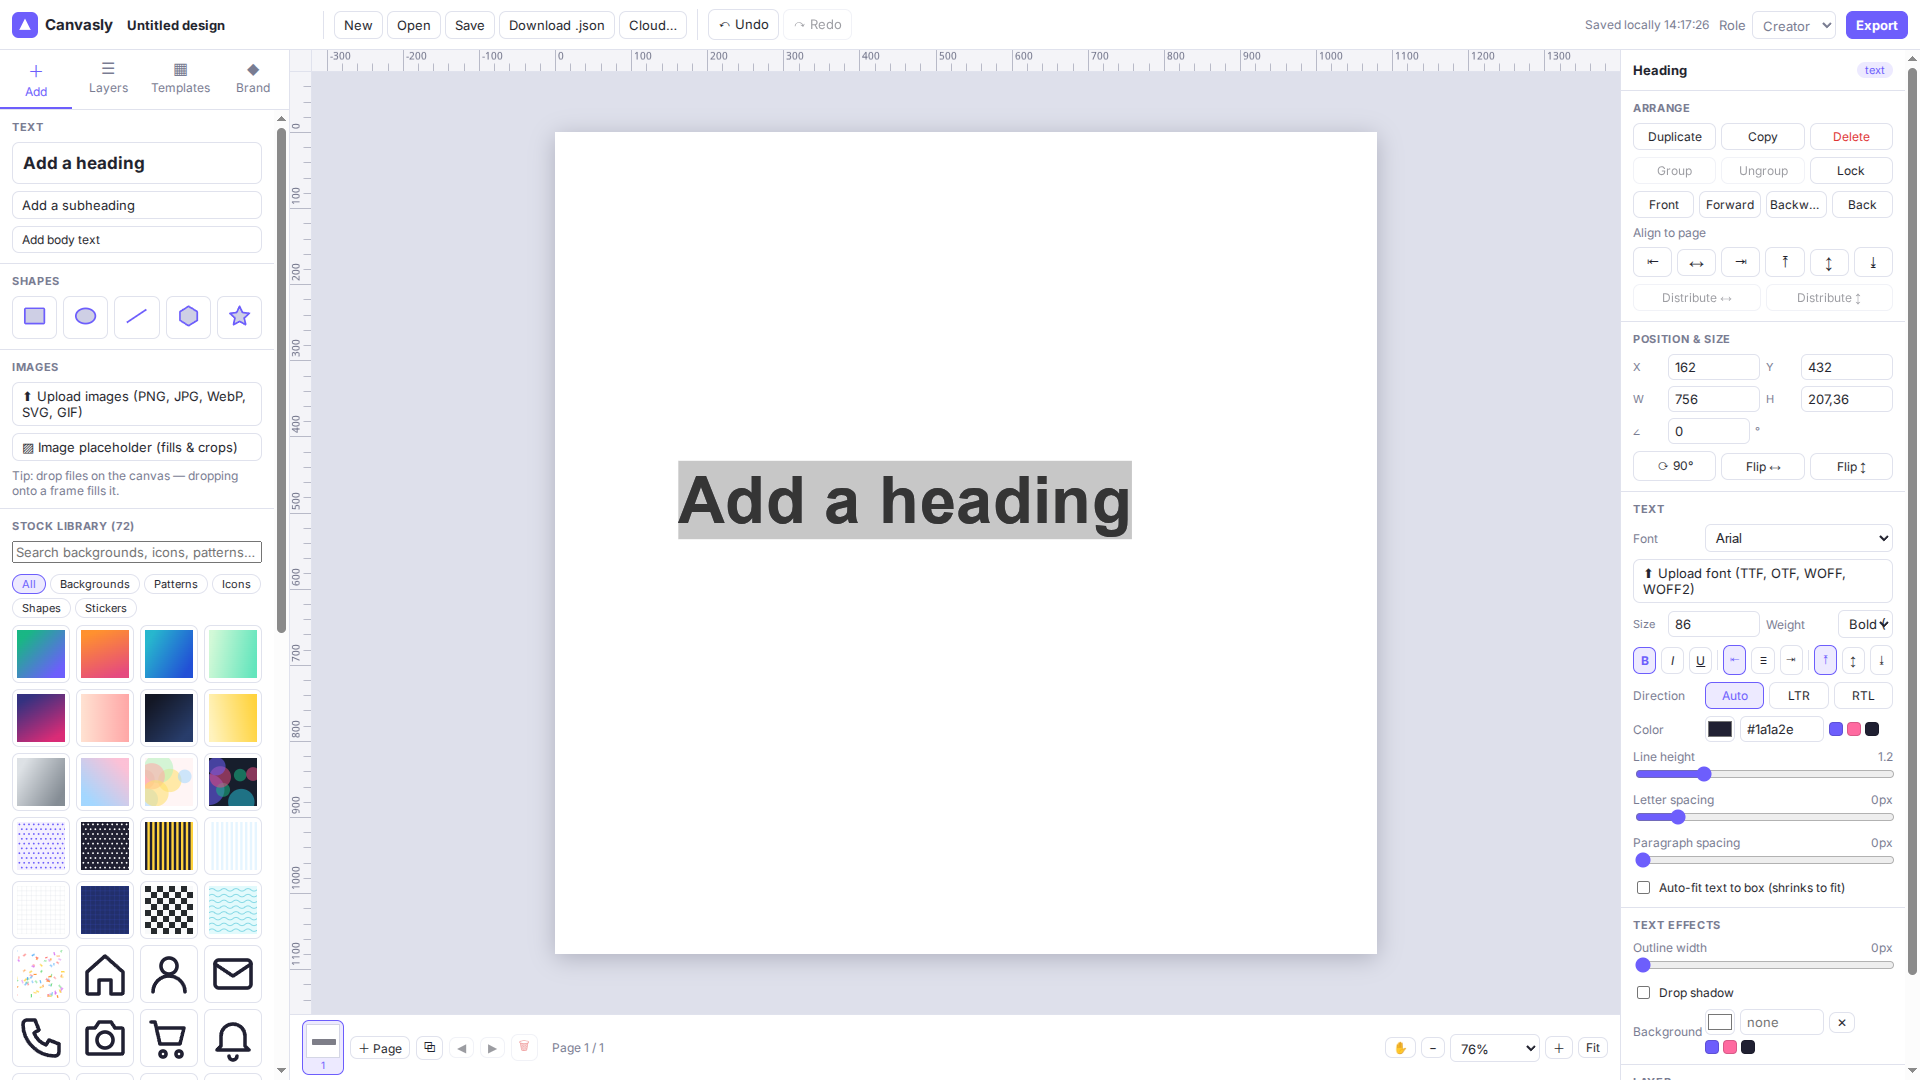
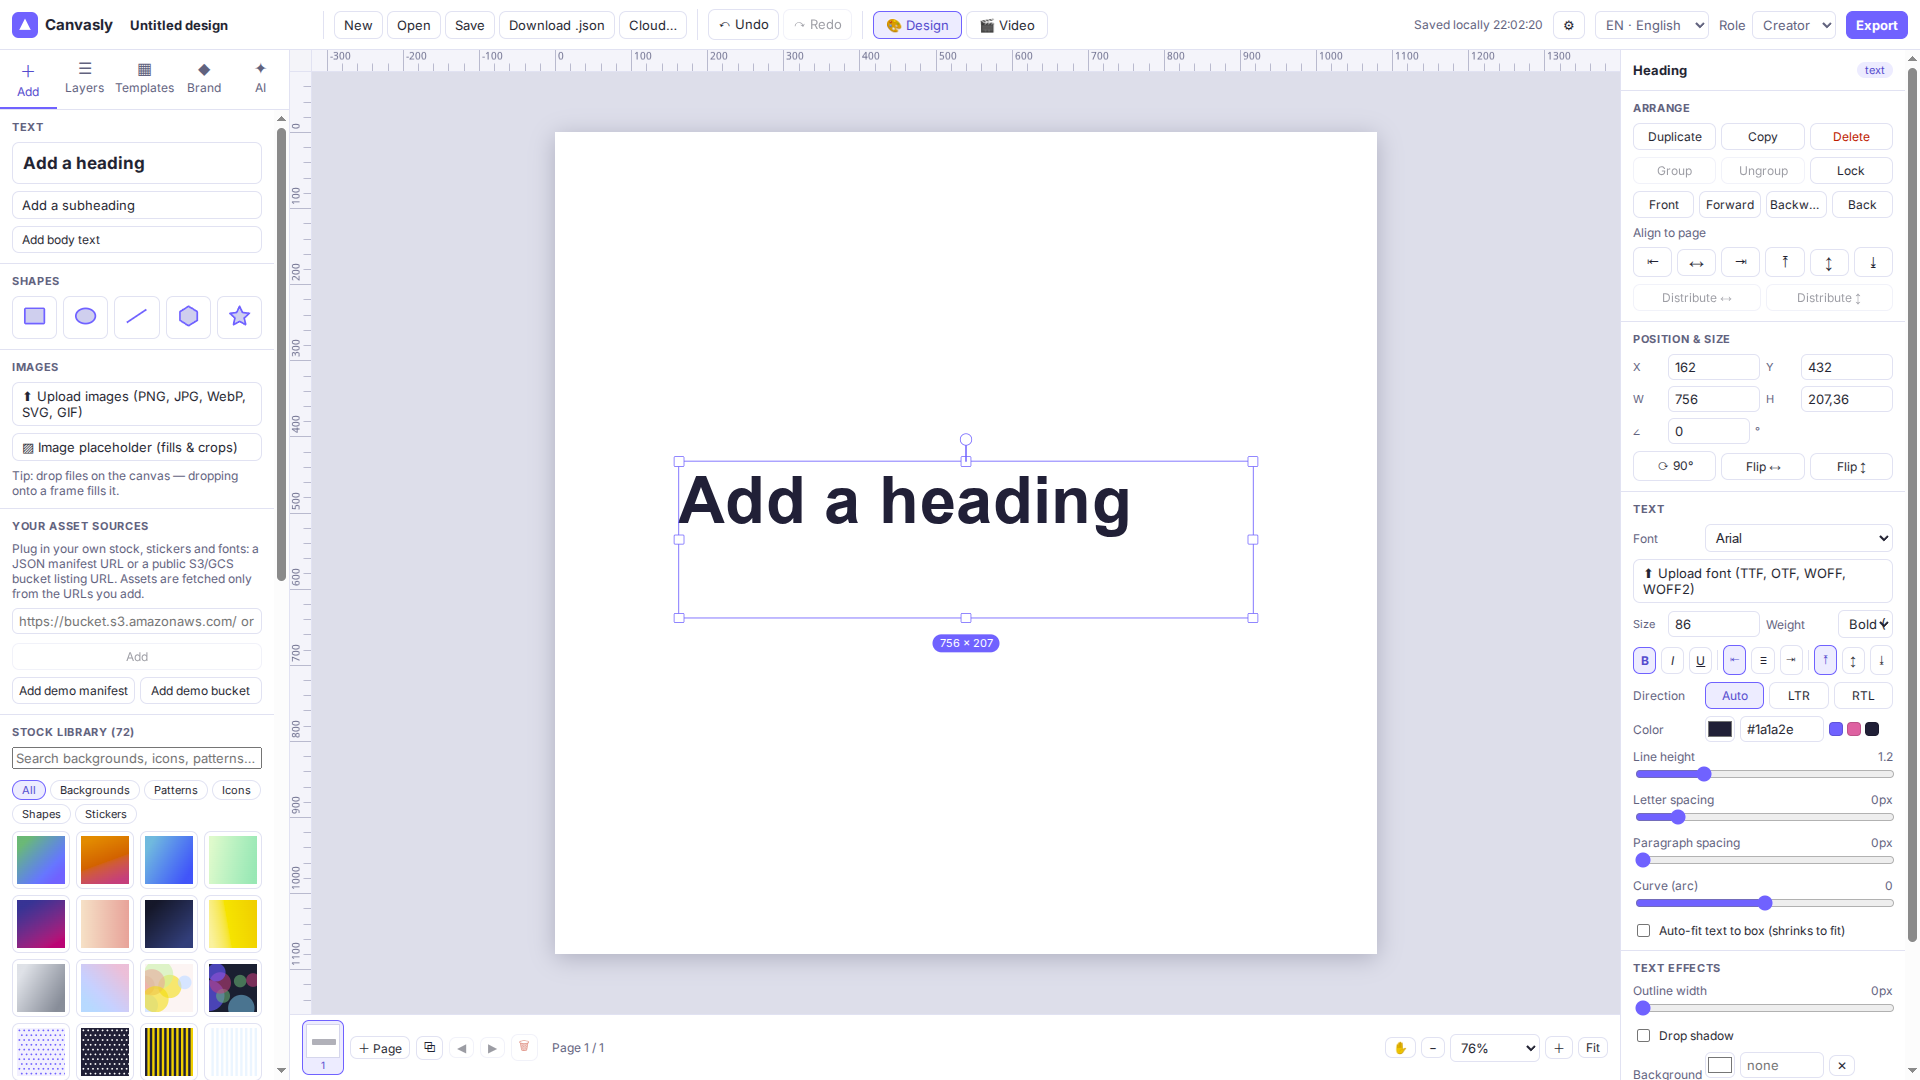
Record Claude Session 4 as 159/159 and refresh the editor screenshot.
Claude closed the remaining checklist rows in the same folder. Sessions 1–3 stay Sonnet at 123; Session 4 ran as Opus 5.5 and is labeled that way in the scoreboard.

diff --git a/claude-cursor-day-1/README.md b/claude-cursor-day-1/README.md
@@ -1,37 +1,41 @@
 # claude-cursor-day-1 — "Canvasly" design editor
 
-A from-scratch Canva-style design editor built by Claude Sonnet 5.5 High (`claude-sonnet-5-5-high`) in Cursor for the IMG.LY build-vs-buy experiment. Stack: **React + TypeScript + Vite only** (no CE.SDK, no `@cesdk/*`, no `@imgly/*`, no other runtime dependencies).
+A from-scratch Canva-style design editor built in Cursor for the IMG.LY build-vs-buy experiment. Sessions 1–3: **Claude Sonnet 5.5 High**. Session 4: **Claude Opus 5.5** (Sonnet was requested; see `TIME_LOG.md`). Stack: **React + TypeScript + Vite** (no CE.SDK, no `@cesdk/*`, no `@imgly/*`). Open-source libraries are allowed.
+
+Self-scored **159 / 159** after Session 4 (Sessions 1–3 were 123 / 159).
 
 ## Install & run
 
 ```bash
 npm install
-npm run dev        # http://localhost:5173
+npm run dev        # http://localhost:5173 (Vite does not pin a port)
 ```
 
-If `localhost` does not resolve in your environment: `npx vite --host 127.0.0.1`.
+If `localhost` does not resolve in your environment: `npx vite --host 127.0.0.1 --port 5173`.
 
 ```bash
-npm run build      # type-check (tsc --noEmit) + production build into dist/
+npm run build      # type-check (tsc --noEmit) + library build + production build into dist/
 npm run preview    # serve the production build
+npm run build:headless
+npm run build:android   # needs ANDROID_HOME
 ```
 
 ## Using it
 
-- **Add** tab: text, shapes, image upload, image placeholder, stickers. **Layers**, **Templates**, **Brand** tabs.
+- **Add** tab: text, shapes, image upload, image placeholder, stickers, asset sources. **Layers**, **Templates**, **Brand**, **AI** tabs.
 - Nothing selected → right panel shows document size (px/mm/in), background, bleed, variables.
 - Ctrl+scroll zoom, scroll / Space+drag pan, Ctrl+0 fit, drag from rulers for guides.
 - Double-click text to edit, double-click an image frame to upload; drop image files on the canvas.
 - Shortcuts: Ctrl+Z / Ctrl+Shift+Z, Ctrl+C/X/V/D, Ctrl+G / Ctrl+Shift+G, Ctrl+A, Ctrl+S, arrows (Shift = 10 px), Delete.
-- Export (top right): PNG / JPEG / WebP, DPI, page / all pages / selection, optional bleed.
+- Export (top right): PNG / JPEG / WebP / PDF / PDF/X-4, DPI, page / all pages / selection, optional bleed.
 - Save: autosaves to browser localStorage; **Download .json** / **Open** for files; **Cloud…** for PUT/GET to your own URL. Data stays in the browser unless you use that dialog.
 
 ## Docs for the experiment
 
-- `PROGRESS.md` — per-checklist-id status guesses (22 pass / 19 partial / 26 fail)
-- `STOPPED.md` — what works / what doesn't
-- `TIME_LOG.md` — timestamps (single ~19 min agent session, not a 6h human day)
+- `PROGRESS.md` — per-checklist-id status (67 pass / 0 partial / 0 fail)
+- `STOPPED.md` — what works / what doesn't, including Session 4
+- `TIME_LOG.md` — timestamps (four sessions; S4 ~5 h wall-clock)
 
 ## Layout
 
-`src/store.ts` (state, history, actions) · `src/geometry.ts` (shapes, math, factories) · `src/render.ts` (canvas export) · `src/textLayout.ts` · `src/components/*` (Canvas, Inspector, panels, dialogs).
+`src/store.ts` (state, history, actions) · `src/geometry.ts` (shapes, math, factories) · `src/render.ts` (canvas export) · `src/textLayout.ts` · `src/pdf.ts` · `src/embed.tsx` · `src/components/*` (Canvas, Inspector, panels, dialogs) · `headless/` · `mobile/android/`.

diff --git a/results/STATUS.md b/results/STATUS.md
@@ -1,15 +1,15 @@
-# Experiment status — Composer + CE.SDK at full weight; Claude at video
+# Experiment status — all three builds at full checklist weight
 
-**Status:** Composer Session 4 and CE.SDK Session 4 both **159 / 159**. Claude Session 3 landed video → **123 / 159** (wrapped on Other Models limit; ~36 weight still open).
+**Status:** Composer Session 4, CE.SDK Session 4, and Claude Session 4 all **159 / 159**. Claude Sessions 1–3 were Claude Sonnet 5.5 High and stopped at **123 / 159** on the usage limit. Session 4 continued the same folder as **Claude Opus 5.5** (Sonnet was requested; the model change is in `TIME_LOG.md`).
 
 ## Final scores
 
 | Build | pass | weighted / 159 | Logged agent time |
 |-------|-----:|---------------:|-------------------|
-| Claude | 51 | 123 | ~61 min (3 sessions; S3 ~18 min) |
+| Claude | **67** | **159** | ~6 h 03 min (4 sessions; S1–S3 Sonnet ~61 min at 123; S4 Opus ~5 h 02 min, ~1 h of that waiting on Android SDK / emulator downloads) |
 | Composer | **67** | **159** | ~12 min (4 sessions; S4 ~4 min) |
 | CE.SDK | **67** | **159** | scaffold + live + S3/S4 wire |
 
 ## Article framing
 
-Multiple continuous sessions, not a literal 6-hour wall-clock day. Agent builds forbid CE.SDK. Composer’s perfect score is self-scored from a from-scratch app (video/AI/PDF approximations); CE.SDK’s perfect score reflects enabling the commercial product surface. Claude’s 123 includes a full client-side Video Studio; AI/platform/print gaps remain.
+Multiple continuous sessions, not a literal 6-hour wall-clock day. Agent builds forbid CE.SDK. Perfect checklist scores are self-scored; a second agent rechecked earlier sessions. Claude Session 4 is self-scored. Composer’s 159 is a from-scratch app (video/AI/PDF approximations). CE.SDK’s 159 reflects enabling the commercial product surface. Claude’s 159 includes the Session 4 platform, print, AI and accessibility rows; the output files still have the same system gaps as the other agent-only build.

diff --git a/results/SPOT_TEST.md b/results/SPOT_TEST.md
@@ -1,6 +1,6 @@
 # Spot-test notes
 
-Date: 2026-10-16 (CE.SDK/Claude) · Composer screenshot refreshed 2026-10-17 after session 3 · Ports 5173 (Claude), 5174 (Composer), 5176 (CE.SDK)
+Date: 2026-10-16 (CE.SDK/Claude) · Composer screenshot refreshed 2026-10-17 after session 3 · Claude screenshot refreshed 2026-10-30 after session 4 · Ports 5173 (Claude), 5174 (Composer), 5176 (CE.SDK)
 
 Shared ids: **1, 3, 6, 7, 12, 13, 20, 22, 34, 41**
 
@@ -48,10 +48,12 @@ Screenshot: `screenshots/cursor-day-1-editor.png`
 
 Screenshot: `screenshots/cesdk-day-1-editor.png`
 
-## Rollup (Composer S4 + CE.SDK S4 → dual 159)
+## Rollup (all three at 159)
 
 | Build | pass | partial | fail | weighted |
 |-------|-----:|--------:|-----:|---------:|
-| Claude | 51 | 3 | 13 | 123 |
+| Claude | **67** | **0** | **0** | **159** |
 | Composer | **67** | **0** | **0** | **159** |
 | CE.SDK | **67** | **0** | **0** | **159** |
+
+Claude Sessions 1–3 (Sonnet 5.5 High) were 51 / 3 / 13 = 123. Session 4 (Opus 5.5) self-scored the remaining rows. The ten shared spot-test rows were not re-clicked after Session 4; they still pass.

diff --git a/transcripts/claude-cursor-day-1.md b/transcripts/claude-cursor-day-1.md
@@ -68,3 +68,11 @@ Session 2 → Session 3: **51 / 3 / 13 (weighted 123/159)**. Pass: 49–54 (trim
 
 ### Honest caveats
 No human QA, Chromium only, PDFs checked with poppler but not Acrobat/preflight. PDF isn't PDF/X; system fonts aren't embedded; RTL/effects/gradients/images are rasterised in PDF. Background removal is a heuristic. Batch is main-thread. I verified most new panels through the store API, not by clicking each control.
+
+## Session 4 (2026-10-29, ~5 h 02 min) — toward 159
+
+Requested Claude Sonnet 5.5 High. Ran as **Claude Opus 5.5**. Same folder, no CE.SDK. Started at 123 / 159, self-scored **159 / 159**.
+
+Closed: PDF/X-4 tag + generated sRGB ICC, ML background removal (U²-Net-p), vectorize, text on an arc, AI tab (dry-run / user key), white-label, embed API + plain-JS host, headless Node + Docker, German UI, custom asset sources, keyboard / axe-core, Android WebView APK on an emulator.
+
+Caveats in `STOPPED.md`: no Acrobat/PitStop, RTL still rasterised in PDF, AI mocked not live OpenAI, Android emulator not a physical phone, no iOS / RN / Flutter.

diff --git a/results/RESULTS.md b/results/RESULTS.md
@@ -2,8 +2,10 @@
 
 | Build | Model | Sessions | pass | partial | fail | weighted / 159 |
 |-------|-------|----------|-----:|--------:|-----:|---------------:|
-| claude-cursor-day-1 | Claude Sonnet 5.5 High | 3 | 51 | 3 | 13 | 123 |
+| claude-cursor-day-1 | Claude Sonnet 5.5 High (S1–S3), Claude Opus 5.5 (S4) | 4 | **67** | **0** | **0** | **159** |
 | cursor-day-1 | Composer 2.5 Fast | 4 | **67** | **0** | **0** | **159** |
 | cesdk-day-1 | Parent + CE.SDK 1.83.0 | scaffold + live + S3/S4 | **67** | **0** | **0** | **159** |
+
+Claude Sessions 1–3 (Sonnet) were **123 / 159**. Session 4 continued the same folder on Opus 5.5 and self-scored 159. See `claude-cursor-day-1/TIME_LOG.md`.
 
 Screenshots: [`screenshots/`](./screenshots/) · Spot-test: [`SPOT_TEST.md`](./SPOT_TEST.md) · Status: [`STATUS.md`](./STATUS.md)

diff --git a/README.md b/README.md
@@ -8,7 +8,7 @@ Companion repo for the IMG.LY experiment: two coding-agent builds vs one CE.SDK 
 
 | Folder | Role | Model | Weighted pass / 159 |
 |--------|------|-------|--------------------:|
-| [`claude-cursor-day-1/`](./claude-cursor-day-1/) | Agent (no CE.SDK) | Claude Sonnet 5.5 High | 123 |
+| [`claude-cursor-day-1/`](./claude-cursor-day-1/) | Agent (no CE.SDK) | Claude Sonnet 5.5 High (S1–S3), Opus 5.5 (S4) | **159** |
 | [`cursor-day-1/`](./cursor-day-1/) | Agent (no CE.SDK) | Composer 2.5 Fast | **159** |
 | [`cesdk-day-1/`](./cesdk-day-1/) | Control | CE.SDK 1.83.0 design editor | **159** |
 

diff --git a/results/screenshots/README.md b/results/screenshots/README.md
@@ -1,9 +1,9 @@
 # Screenshots
 
-Captured 2026-10-16 during wrap-up spot-tests.
+Captured 2026-10-16 during wrap-up spot-tests. Claude full-editor shot refreshed 2026-10-30 after Session 4.
 
 | File | Build |
 |------|-------|
-| `claude-cursor-day-1-editor.png` | Claude agent editor with text selected |
+| `claude-cursor-day-1-editor.png` | Claude agent editor with text selected (Session 4 UI) |
 | `cursor-day-1-editor.png` | Composer agent editor with text selected |
 | `cesdk-day-1-editor.png` | CE.SDK design editor (licensed) with demo scene |
